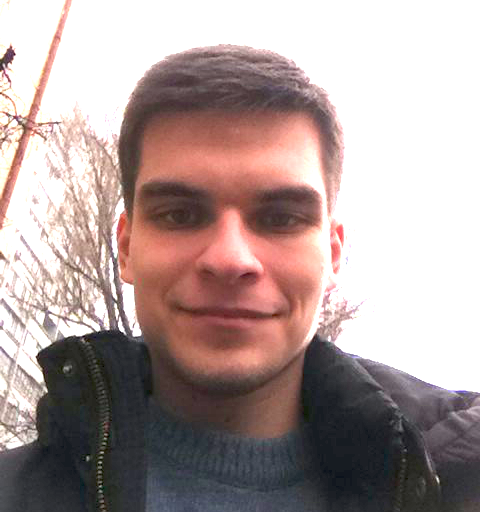
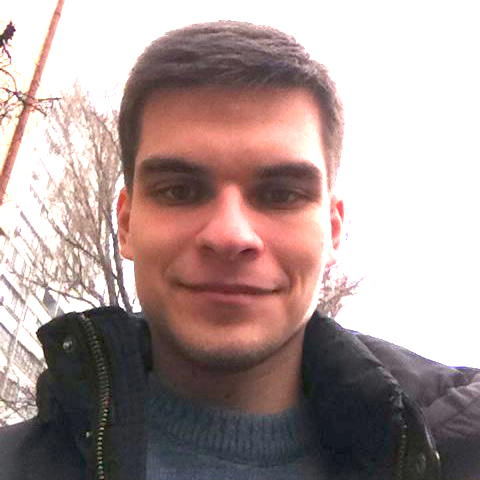
Add files via upload

diff --git a/Arbitrage/Lander/index.html b/Arbitrage/Lander/index.html
@@ -273,7 +273,7 @@
           </div>
           <div class="w3-col l3 m6 w3-margin-bottom">
             <div class="w3-card">
-              <img src="./img/stuf/image1-1.png" alt="Elena" style="width:100%">
+              <img src="./img/stuf/image7.jpg" alt="Elena" style="width:100%">
               <div class="w3-container">
                 <h3>Elena Naumova</h3>
                 <p class="w3-opacity">Designer</p>
